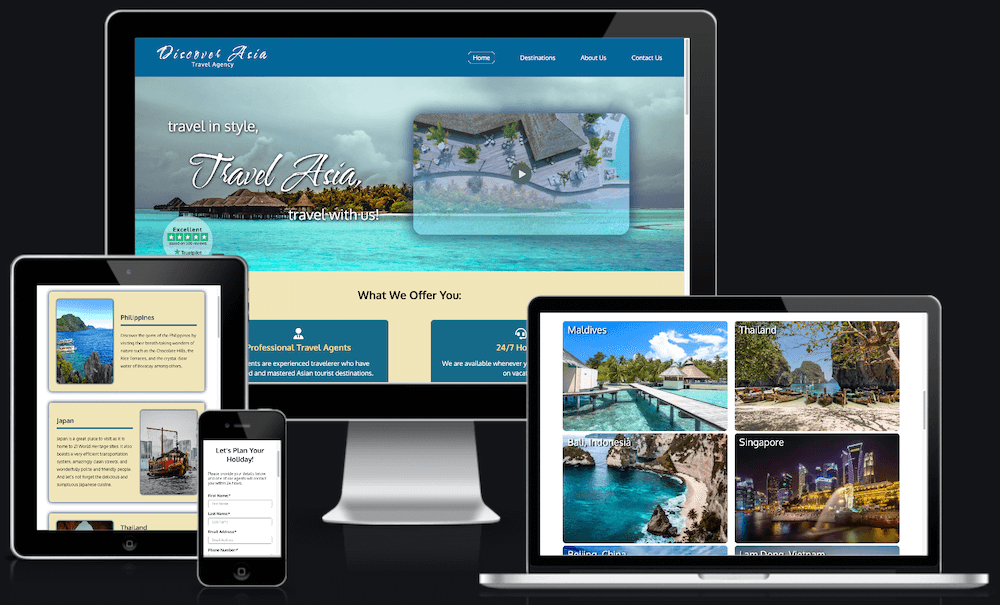
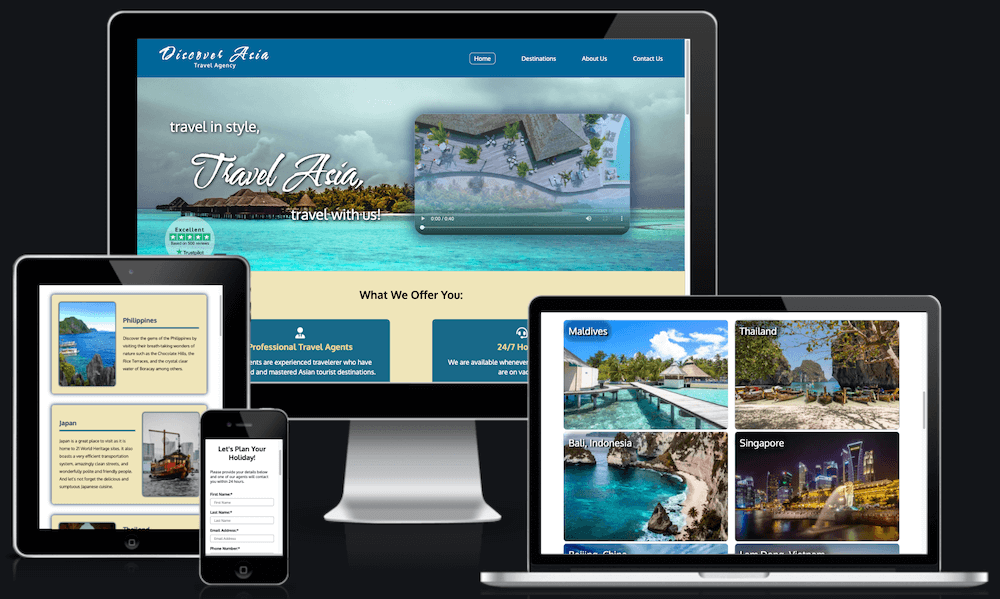
Replace screenshot for responsive image and Top Destinations with updated versions

Changed region(s): [[0.0, 0.0, 0.992, 0.9917]]

diff --git a/README.md b/README.md
@@ -57,7 +57,9 @@ Discover Asia is a travel agency website created to showcase to globetrotters an
 
 * **'Our Top Destinations' section**
 
-    This section displays images of the six (6) most popular countries in Asia where the travel agency can bring its clients. These are the countries that clients love to visit the most. Each of these images are clickable and will redirect to their corresponding country in the Destinations page.
+    This section displays images of the six (6) most popular countries in Asia where the travel agency can bring its clients. These are the countries that clients love to visit the most. 
+    
+    Each of these images are clickable and will redirect to their corresponding country in the Destinations page. Also, on hover, each image will slightly reduce in opacity and a box-shadow appears as an additional clue that the image is clickable.
     
     At the bottom of this section is a button ('see more destinations') that links to the Destinations page for clients who are interested to see all the other countries where Discover Asia can bring them.
 
